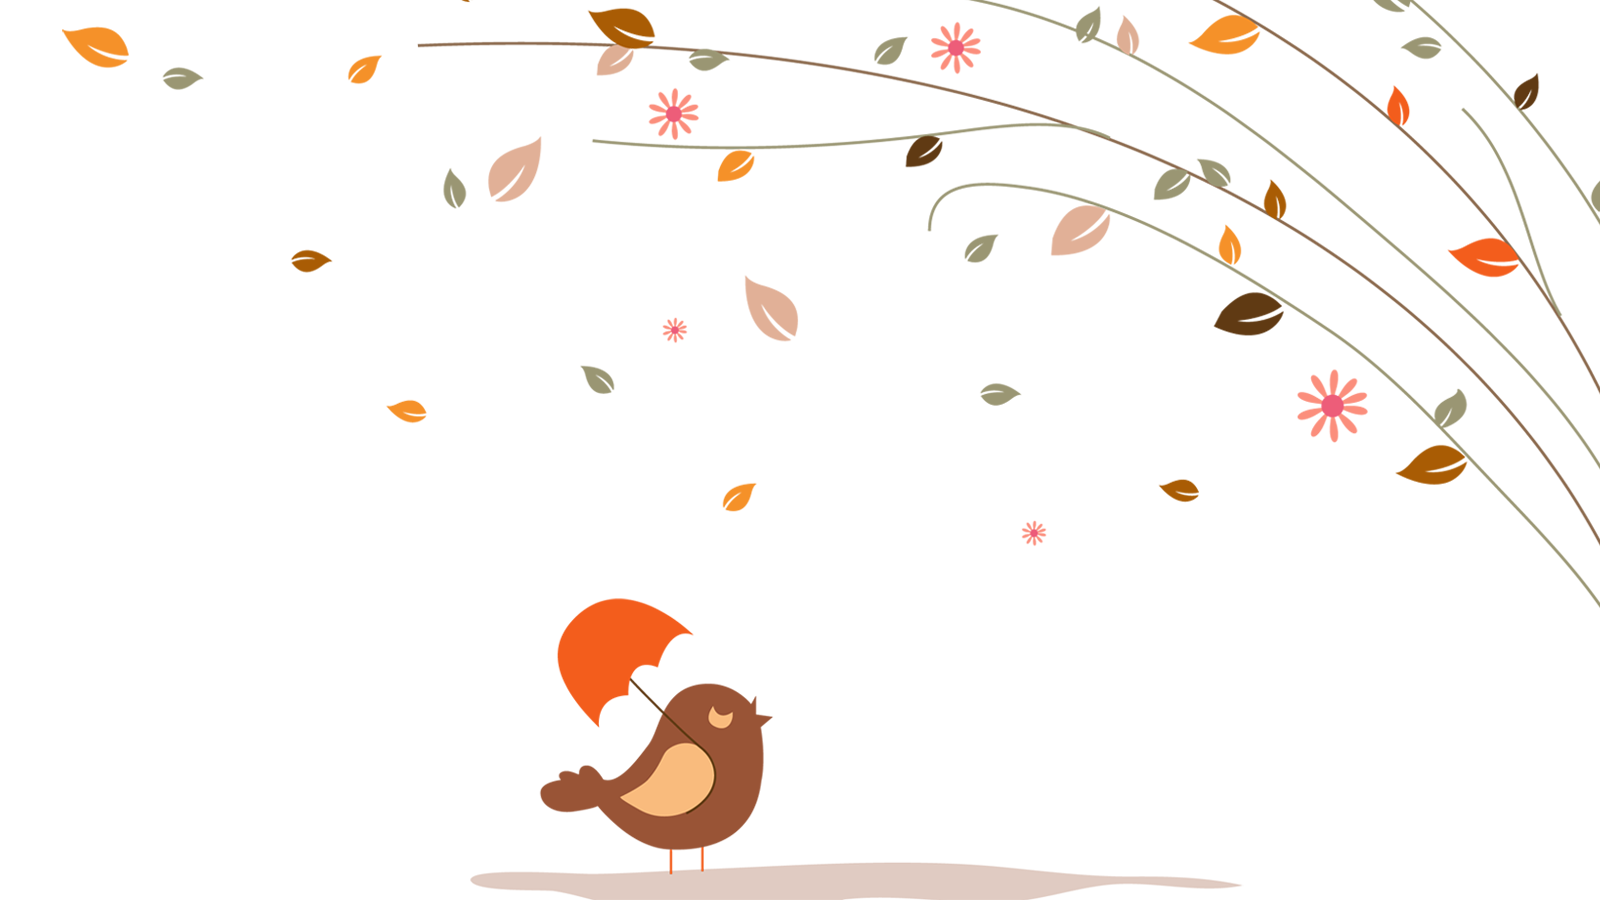
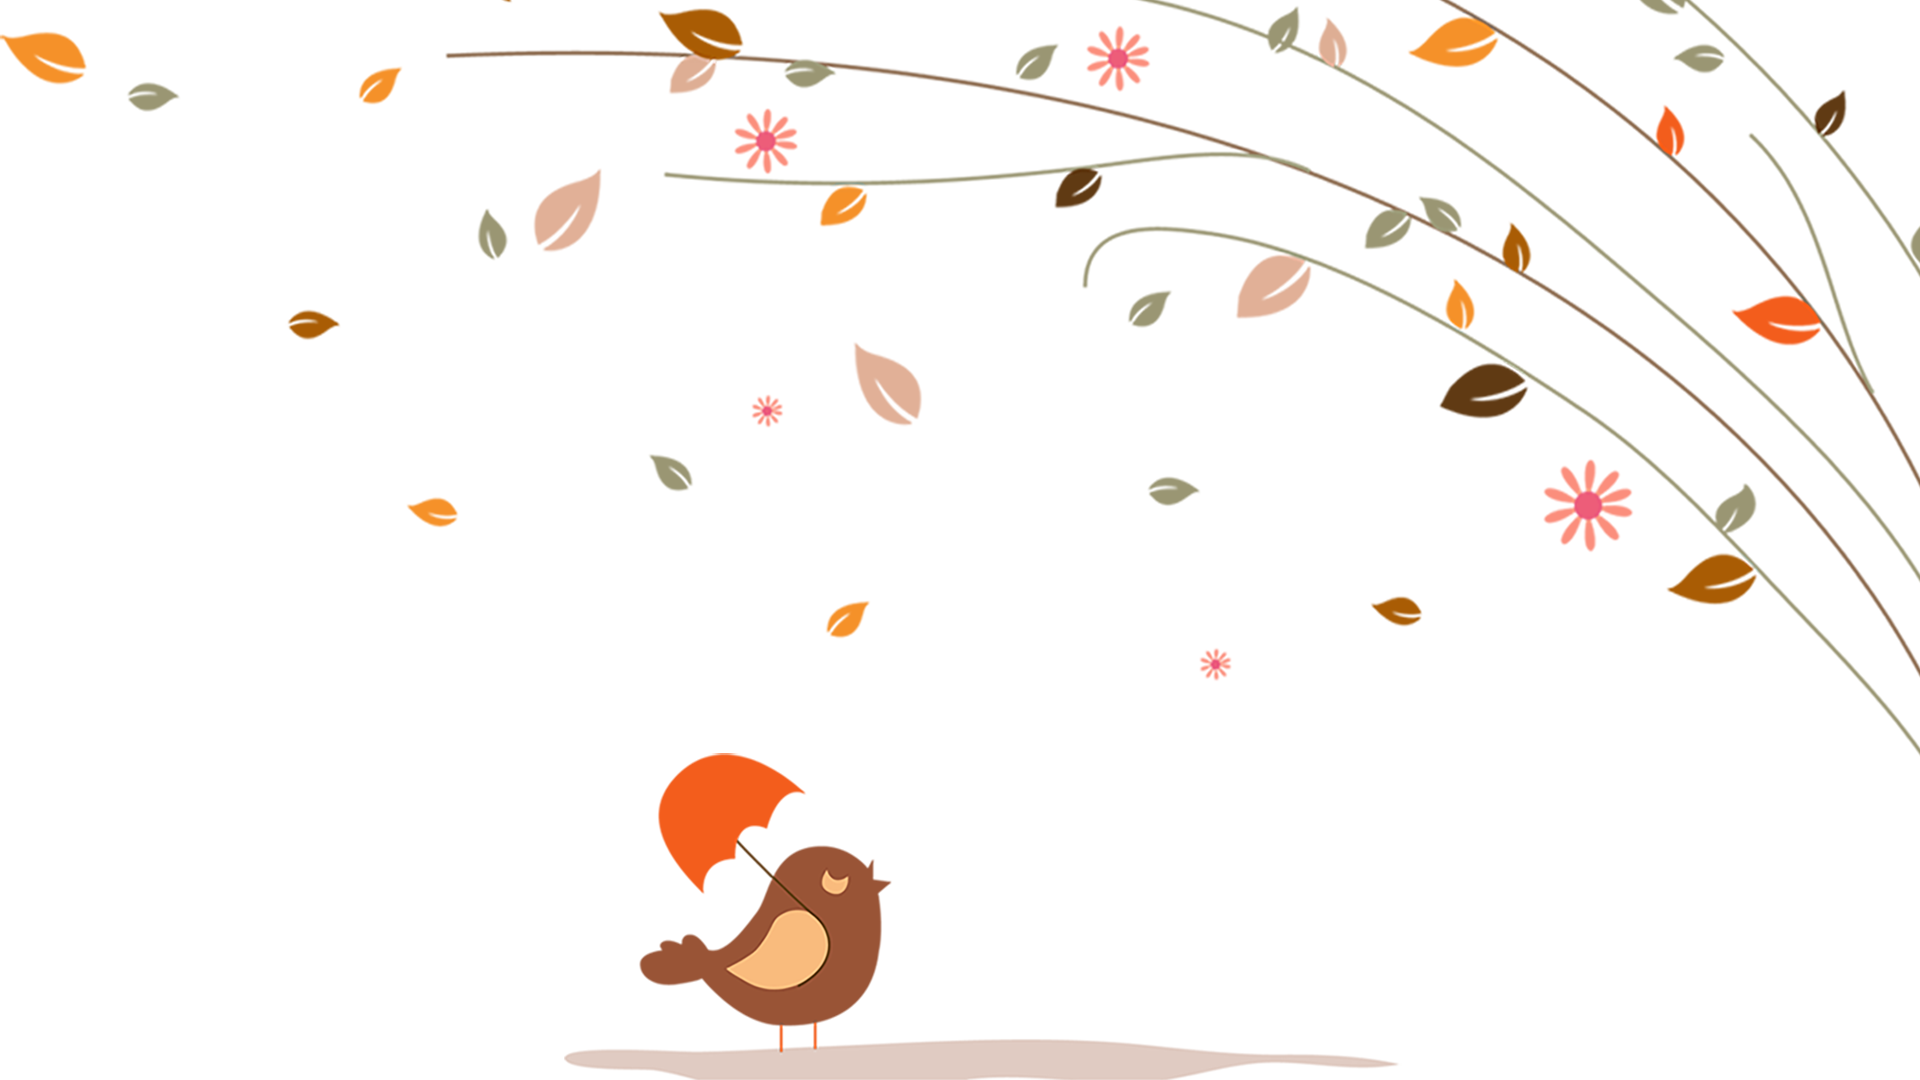
decorated login and signup pages

diff --git a/public/css/login-reg.css b/public/css/login-reg.css
@@ -8,7 +8,7 @@
       -webkit-animation-direction: alternate;
       animation-direction: alternate; */
       background-color: #f8d7ff!important;
-      background-image: url("../img/kissingbird3.png");
+      background-image: url("../img/kissingbird.png");
       background-repeat: no-repeat;
       background-attachment: fixed;
       background-size: 100% auto;
